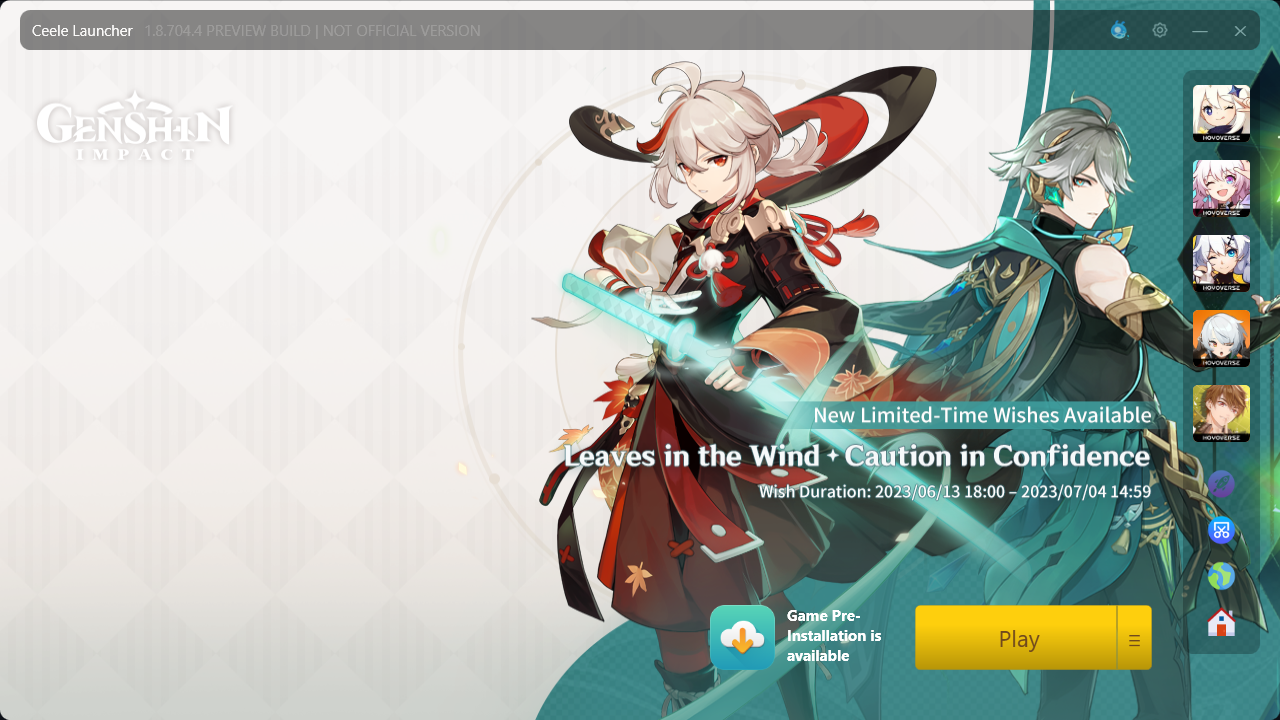
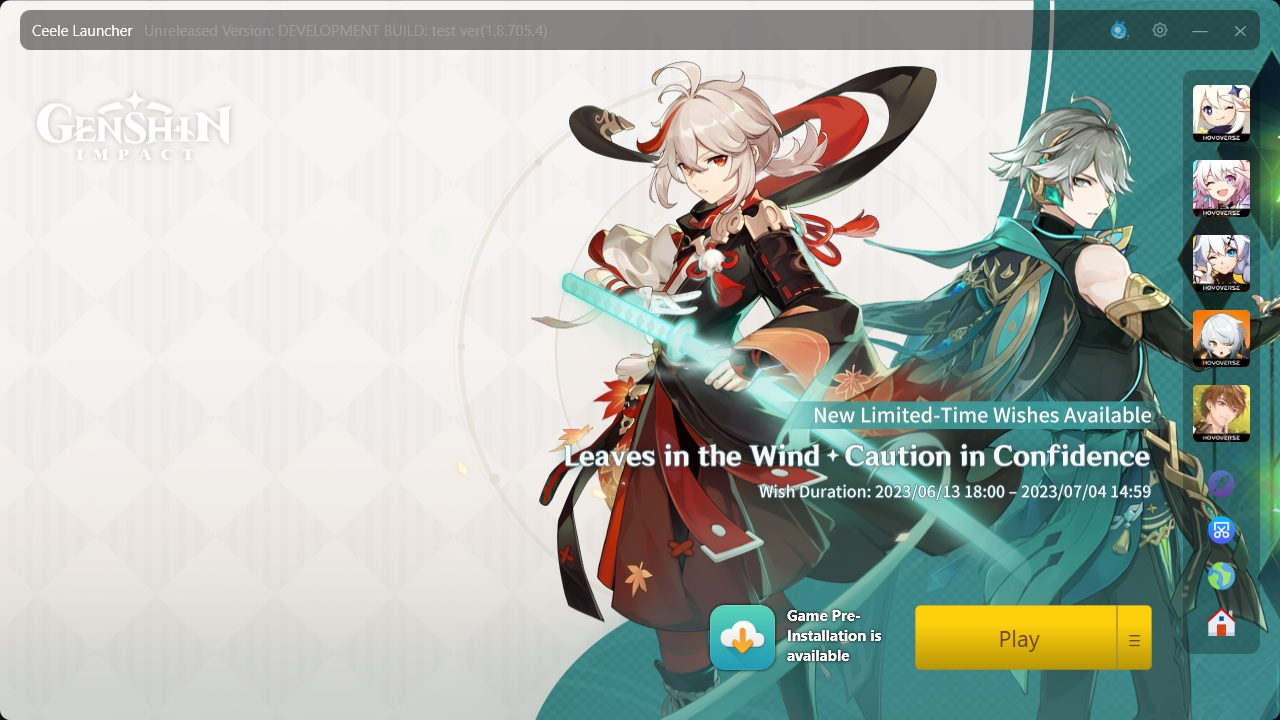
Dev Commit
[ Fixes ]
- Fixed HttpClient caching old info from same url
causing the bg warning keep saying "open the launcher". Added NoCache.
- Fixed where Genshin API update pathing was incorrect and will keep saying "Update" even after
its already downloaded the update.

[ New | Changes ]
- Updated readme pictures.
- Play button has now drop shadow effect animation.
- buildin and pub are removed.
- replaced most of Console.WriteLine under
"#IF DEBUG" into Debug.WriteLine

diff --git a/src/MainWindow.xaml b/src/MainWindow.xaml
@@ -44,6 +44,9 @@
             <Button Name="LaunchSelection" Style="{StaticResource LaunchSettings}" Margin="1117,605,128,50" HorizontalAlignment="Right" VerticalAlignment="Bottom"/>
 
             <Border Name="GameSelection" Style="{StaticResource GameSelectionBorder}" Visibility="Collapsed" HorizontalAlignment="Right" VerticalAlignment="Bottom" Margin="0,0,128,120" Width="227" Height="218">
+                <Border.Effect>
+                    <DropShadowEffect ShadowDepth="0" RenderingBias="Performance" BlurRadius="5"/>
+                </Border.Effect>
                 <Canvas Name="GameSelection_Click" ClipToBounds="True">
                     <Button Name="GAME_SELECTION_GI" Uid="0" Style="{StaticResource GameSelectionButton}" Content="Genshin Impact" Height="35" Width="217" HorizontalAlignment="Center" VerticalAlignment="Top" Canvas.Top="7"/>
                     <Button Name="GAME_SELECTION_HSR" Uid="1" Style="{StaticResource GameSelectionButton}" Content="Honkai: Star Rail" Height="35" Width="217" HorizontalAlignment="Center" Canvas.Top="47" VerticalAlignment="Top"/>
@@ -55,6 +58,9 @@
 
             <Border Name="SideButtons" Background="#40000000" Margin="0,70,20,0" CornerRadius="10" HorizontalAlignment="Right" VerticalAlignment="Top" Height="584" Width="77">
                 <Canvas x:Name="SideButton_Click">
+                    <Canvas.Effect>
+                        <DropShadowEffect ShadowDepth="0" RenderingBias="Performance" BlurRadius="5"/>
+                    </Canvas.Effect>
                     <ButtonControl:HoyoButton x:Name="GENSHIN_IMPACT_REWARDS" Height="57" Width="57" Canvas.Left="10" Canvas.Top="15" Image="/Resources/Buttons/GI.jpg" HorizontalAlignment="Center" VerticalAlignment="Top"/>
                     <ButtonControl:HoyoButton x:Name="HONKAI_STAR_RAIL_REWARDS" Height="57" Width="57" Canvas.Left="10" Canvas.Top="90" Image="/Resources/Buttons/HSR.jpg" HorizontalAlignment="Center" VerticalAlignment="Top"/>
                     <ButtonControl:HoyoButton x:Name="HONKAI_IMPACT_THIRD_REWARDS" Height="57" Width="57" Canvas.Left="10" Canvas.Top="165" Image="/Resources/Buttons/HI3.jpg" HorizontalAlignment="Center" VerticalAlignment="Top"/>
@@ -68,7 +74,7 @@
                 </Canvas>
             </Border>
 
-            <Border Name="VERSION_BUBBLE" CornerRadius="10" Background="#5FFFFFFF" Margin="0,0,390,50" Visibility="Visible" VerticalAlignment="Bottom" HorizontalAlignment="Right" Width="175" Height="65">
+            <Border Name="VERSION_BUBBLE" CornerRadius="10" Background="#5FFFFFFF" Margin="0,0,390,50" Visibility="Collapsed" VerticalAlignment="Bottom" HorizontalAlignment="Right" Width="175" Height="65">
                 <Border.Effect>
                     <DropShadowEffect ShadowDepth="0" RenderingBias="Performance" BlurRadius="5"/>
                 </Border.Effect>

diff --git a/src/HoyoLauncher.Controls/LaunchButton/LaunchButton.xaml b/src/HoyoLauncher.Controls/LaunchButton/LaunchButton.xaml
@@ -29,6 +29,9 @@
                         </Canvas>
 
                         <Border Height="65" Width="202" CornerRadius="5,0,0,5" BorderThickness="0.5" BorderBrush="#b28d1d">
+                            <Border.Effect>
+                                <DropShadowEffect x:Name="Shadow" ShadowDepth="0" RenderingBias="Performance" BlurRadius="15" Color="#fccc05" Opacity="0"/>
+                            </Border.Effect>
                             <Border.Background>
                                 <LinearGradientBrush StartPoint="0.5,0" EndPoint="0.5,1">
                                     <GradientStop Color="#fecf0d" Offset="0.3" />
@@ -59,6 +62,11 @@
                                             <SineEase EasingMode="EaseInOut"/>
                                         </DoubleAnimation.EasingFunction>
                                     </DoubleAnimation>
+                                    <DoubleAnimation Storyboard.TargetName="Shadow" Storyboard.TargetProperty="Opacity" To="1" Duration="0:0:.5">
+                                        <DoubleAnimation.EasingFunction>
+                                            <SineEase EasingMode="EaseInOut"/>
+                                        </DoubleAnimation.EasingFunction>
+                                    </DoubleAnimation>
                                 </Storyboard>
                             </BeginStoryboard>
                         </EventTrigger>
@@ -73,9 +81,14 @@
                                     </ColorAnimation>
                                     <DoubleAnimation Storyboard.TargetName="ButtonTooltip" Storyboard.TargetProperty="Opacity" To="0" Duration="0:0:.1">
                                         <DoubleAnimation.EasingFunction>
-                                                <SineEase EasingMode="EaseInOut"/>
-                                            </DoubleAnimation.EasingFunction>
-                                        </DoubleAnimation>
+                                            <SineEase EasingMode="EaseInOut"/>
+                                        </DoubleAnimation.EasingFunction>
+                                    </DoubleAnimation>
+                                    <DoubleAnimation Storyboard.TargetName="Shadow" Storyboard.TargetProperty="Opacity" To="0" Duration="0:0:.5">
+                                        <DoubleAnimation.EasingFunction>
+                                            <SineEase EasingMode="EaseInOut"/>
+                                        </DoubleAnimation.EasingFunction>
+                                    </DoubleAnimation>
                                 </Storyboard>
                             </BeginStoryboard>
                         </EventTrigger>

diff --git a/src/HoyoLauncher.Controls/LaunchButton/LaunchSettings.xaml b/src/HoyoLauncher.Controls/LaunchButton/LaunchSettings.xaml
@@ -29,6 +29,9 @@
                         </Canvas>
 
                         <Border Height="65" Width="35" CornerRadius="0,5,5,0" BorderThickness="0.5" BorderBrush="#b28d1d">
+                            <Border.Effect>
+                                <DropShadowEffect x:Name="Shadow" ShadowDepth="0" RenderingBias="Performance" BlurRadius="15" Color="#fccc05" Opacity="0"/>
+                            </Border.Effect>
                             <Border.Background>
                                 <LinearGradientBrush StartPoint="0.5,0" EndPoint="0.5,1">
                                     <GradientStop Color="#fecf0d" Offset="0.3" />
@@ -57,6 +60,11 @@
                                                 <SineEase EasingMode="EaseInOut"/>
                                         </DoubleAnimation.EasingFunction>
                                     </DoubleAnimation>
+                                    <DoubleAnimation Storyboard.TargetName="Shadow" Storyboard.TargetProperty="Opacity" To="1" Duration="0:0:.5">
+                                        <DoubleAnimation.EasingFunction>
+                                            <SineEase EasingMode="EaseInOut"/>
+                                        </DoubleAnimation.EasingFunction>
+                                    </DoubleAnimation>
                                 </Storyboard>
                             </BeginStoryboard>
                         </EventTrigger>
@@ -71,6 +79,11 @@
                                     <DoubleAnimation Storyboard.TargetName="ButtonTooltip" Storyboard.TargetProperty="Opacity" To="0" Duration="0:0:.1">
                                         <DoubleAnimation.EasingFunction>
                                                 <SineEase EasingMode="EaseInOut"/>
+                                        </DoubleAnimation.EasingFunction>
+                                    </DoubleAnimation>
+                                    <DoubleAnimation Storyboard.TargetName="Shadow" Storyboard.TargetProperty="Opacity" To="0" Duration="0:0:.5">
+                                        <DoubleAnimation.EasingFunction>
+                                            <SineEase EasingMode="EaseInOut"/>
                                         </DoubleAnimation.EasingFunction>
                                     </DoubleAnimation>
                                 </Storyboard>

diff --git a/src/HoyoLauncher.Core/API/RetrieveAPI.cs b/src/HoyoLauncher.Core/API/RetrieveAPI.cs
@@ -35,7 +35,13 @@ public sealed class RetrieveAPI
             LatestVersion = Latest.GetProperty("version").ToString();
 
             if (Latest.TryGetProperty("path", out JsonElement FilePath))
-                DownloadFile = FilePath.ToString() is not "" ? new(FilePath.ToString()) : null;
+            {
+                string stringPath = FilePath.ToString();
+
+                DownloadFile = stringPath is not "" ? 
+                    new(stringPath) :
+                    new(VersionProperty.GetProperty("game").GetProperty("diffs")[0].GetProperty("path").ToString());
+            }
 
             if(VersionProperty.TryGetProperty("pre_download_game", out JsonElement pre_download))
                 PreDownloadFile = !string.IsNullOrEmpty(pre_download.ToString()) ? new(pre_download.GetProperty("diffs")[0].GetProperty("path").ToString()) : null;
@@ -49,6 +55,20 @@ public sealed class RetrieveAPI
             BackgroundHASH = adv.GetProperty("bg_checksum").ToString();
             BackgroundLINK = new ImageBrush(new BitmapImage(new(adv.GetProperty("background").ToString())));
         }
+
+        Debug.WriteLine($$"""
+
+            API FETCH INFO [Game: {{HoyoMain.CurrentGameSelected.GAME_NAME}}]
+            {
+                Latest Version      :     {{LatestVersion}}
+                
+                Download File Link  :     {{DownloadFile}}
+                Pre Installation    :     {{PreDownloadFile}}
+
+                Background Link     :     {{BackgroundLINK.ImageSource}}
+                Background Hash     :     {{BackgroundHASH}}
+            }
+            """);
     }
 
     static JsonDocument ReadJsonData(Stream stream)
@@ -62,7 +82,17 @@ public sealed class RetrieveAPI
     {
         HttpResponseMessage resp;
 
-        using HttpClient req = new(handler: new HttpClientHandler() { Proxy = null }) { Timeout = TimeSpan.FromSeconds(10) };
+        using HttpClient req = new(handler: new HttpClientHandler() { Proxy = null })
+        {
+            Timeout = TimeSpan.FromSeconds(10),
+            DefaultRequestHeaders =
+            {
+                CacheControl = new()
+                {
+                    NoCache = true,
+                }
+            }
+        };
 
         try
         {

diff --git a/src/HoyoLauncher.Core/Download/RetrieveFile.cs b/src/HoyoLauncher.Core/Download/RetrieveFile.cs
@@ -15,8 +15,18 @@ public sealed class RetrieveFile
         HoyoWindow.ProgressBarElement.Visibility = Visibility.Visible;
 
         FileLocation = Path.Combine(HoyoMain.CurrentGameSelected.GAME_INSTALL_PATH, Path.GetFileName(link.LocalPath));
-        
-        using HttpClient request = new(handler: new HttpClientHandler() { Proxy = null }) { Timeout = TimeSpan.FromDays(1) };
+
+        using HttpClient request = new(handler: new HttpClientHandler() { Proxy = null })
+        {
+            Timeout = TimeSpan.FromDays(1),
+            DefaultRequestHeaders =
+            {
+                CacheControl = new()
+                {
+                    NoCache = true
+                }
+            }
+        };
 
         using var response = await request.GetAsync(link, HttpCompletionOption.ResponseHeadersRead);
 

diff --git a/src/HoyoLauncherMessageBox/HoyoMessageBox.xaml.cs b/src/HoyoLauncherMessageBox/HoyoMessageBox.xaml.cs
@@ -37,6 +37,16 @@ public partial class HoyoMessageBox : Window
         WindowDrag.MouseDown += App.DragMove<HoyoMessageBox>;
 
         OkBtn.MouseDown += OK_BUTTON;
+
+        Debug.WriteLine($$"""
+            HoyoMessageBox Instance
+            {
+                Title           : {{Caption}}
+                Message         : {{Message}}
+                Window Owner    : {{Owner}}
+            }
+
+            """);
     }
 
     public void OK_BUTTON(object sender, MouseButtonEventArgs events)

diff --git a/src/MainWindow.xaml.cs b/src/MainWindow.xaml.cs
@@ -18,8 +18,8 @@ public partial class MainWindow : Window
         AppVersion.Text = App.IsPreview ? App.Version+" PREVIEW BUILD | NOT OFFICIAL VERSION" : App.Version;
 #else
         AppVersion.Text += $": test ver({App.Version})";
-        Console.WriteLine("BUILD HASH: "+App.UniqueHashBUILD);
 #endif
+        Debug.WriteLine("BUILD HASH: "+App.UniqueHashBUILD);
     }
 
     public static void SetProgressBarValue(double value) =>

diff --git a/readme.md b/readme.md
@@ -31,7 +31,7 @@ The App requires [NET-7](https://download.visualstudio.microsoft.com/download/pr
 |![](readme/MainOverview/genshin.jpg)|![](readme/MainOverview/StarRail.jpg)|
 |![](readme/MainOverview/hi3.jpg)|![](readme/MainOverview/zzz.jpg)|
 |![](readme/MainOverview/tot.jpg)|![](readme/MainOverview/missingLocation.jpg)|
-|![](readme/MainOverview/update.jpg)|![](readme/MainOverview/downloading.jpg)|
+|![](readme/MainOverview/update.jpg)|![](readme/MainOverview/download.jpg)|
 
 # Settings Overview
  | | | |
@@ -41,8 +41,10 @@ The App requires [NET-7](https://download.visualstudio.microsoft.com/download/pr
 <div align="center">
 
 # Download Links
-[![](readme/Release.png)](https://github.com/IchimakiKasura/CeeleLauncher/releases/latest/download/HoyoLauncher.exe) <br>
-[![](readme/Preview.png)](https://github.com/IchimakiKasura/CeeleLauncher/releases/download/v1.8.705.4-previewbuild/CeeleLauncher.exe)
+<a href="https://github.com/IchimakiKasura/CeeleLauncher/releases/latest/download/HoyoLauncher.exe"><img Title="Download Latest" src="readme/Release.png" height="90"/></a>  
+<a href="https://github.com/IchimakiKasura/CeeleLauncher/releases/download/v1.8.705.4-previewbuild/CeeleLauncher.exe"><img Title="Download Preview build" src="readme/Preview.png" height="90"/></a>
+
+<br>
 
 ## DISCLAIMER:
 This app is not affiliated with miHoYo / Hoyoverse by any means.
